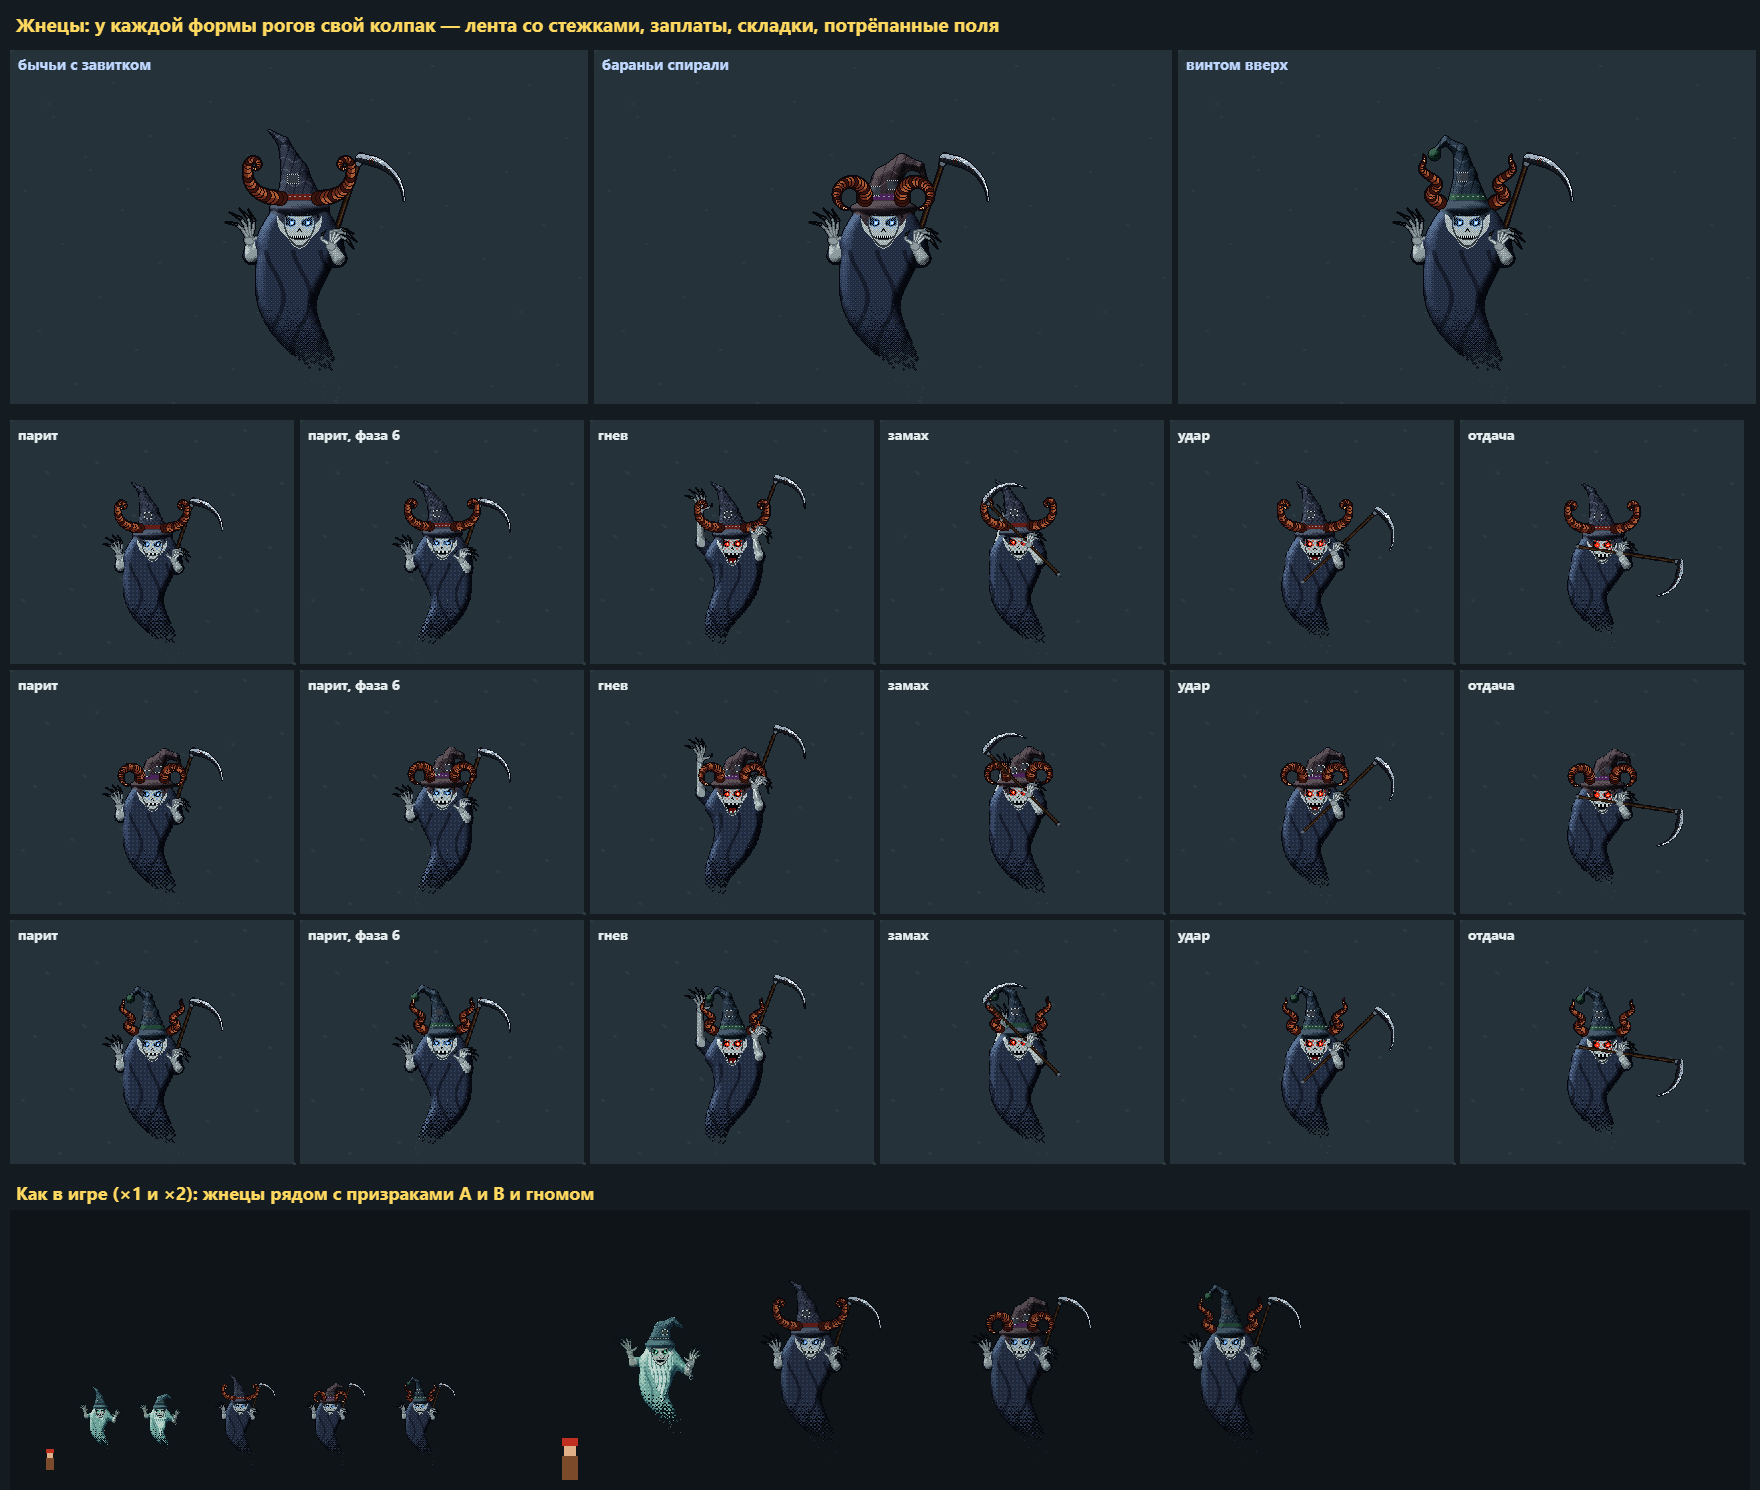
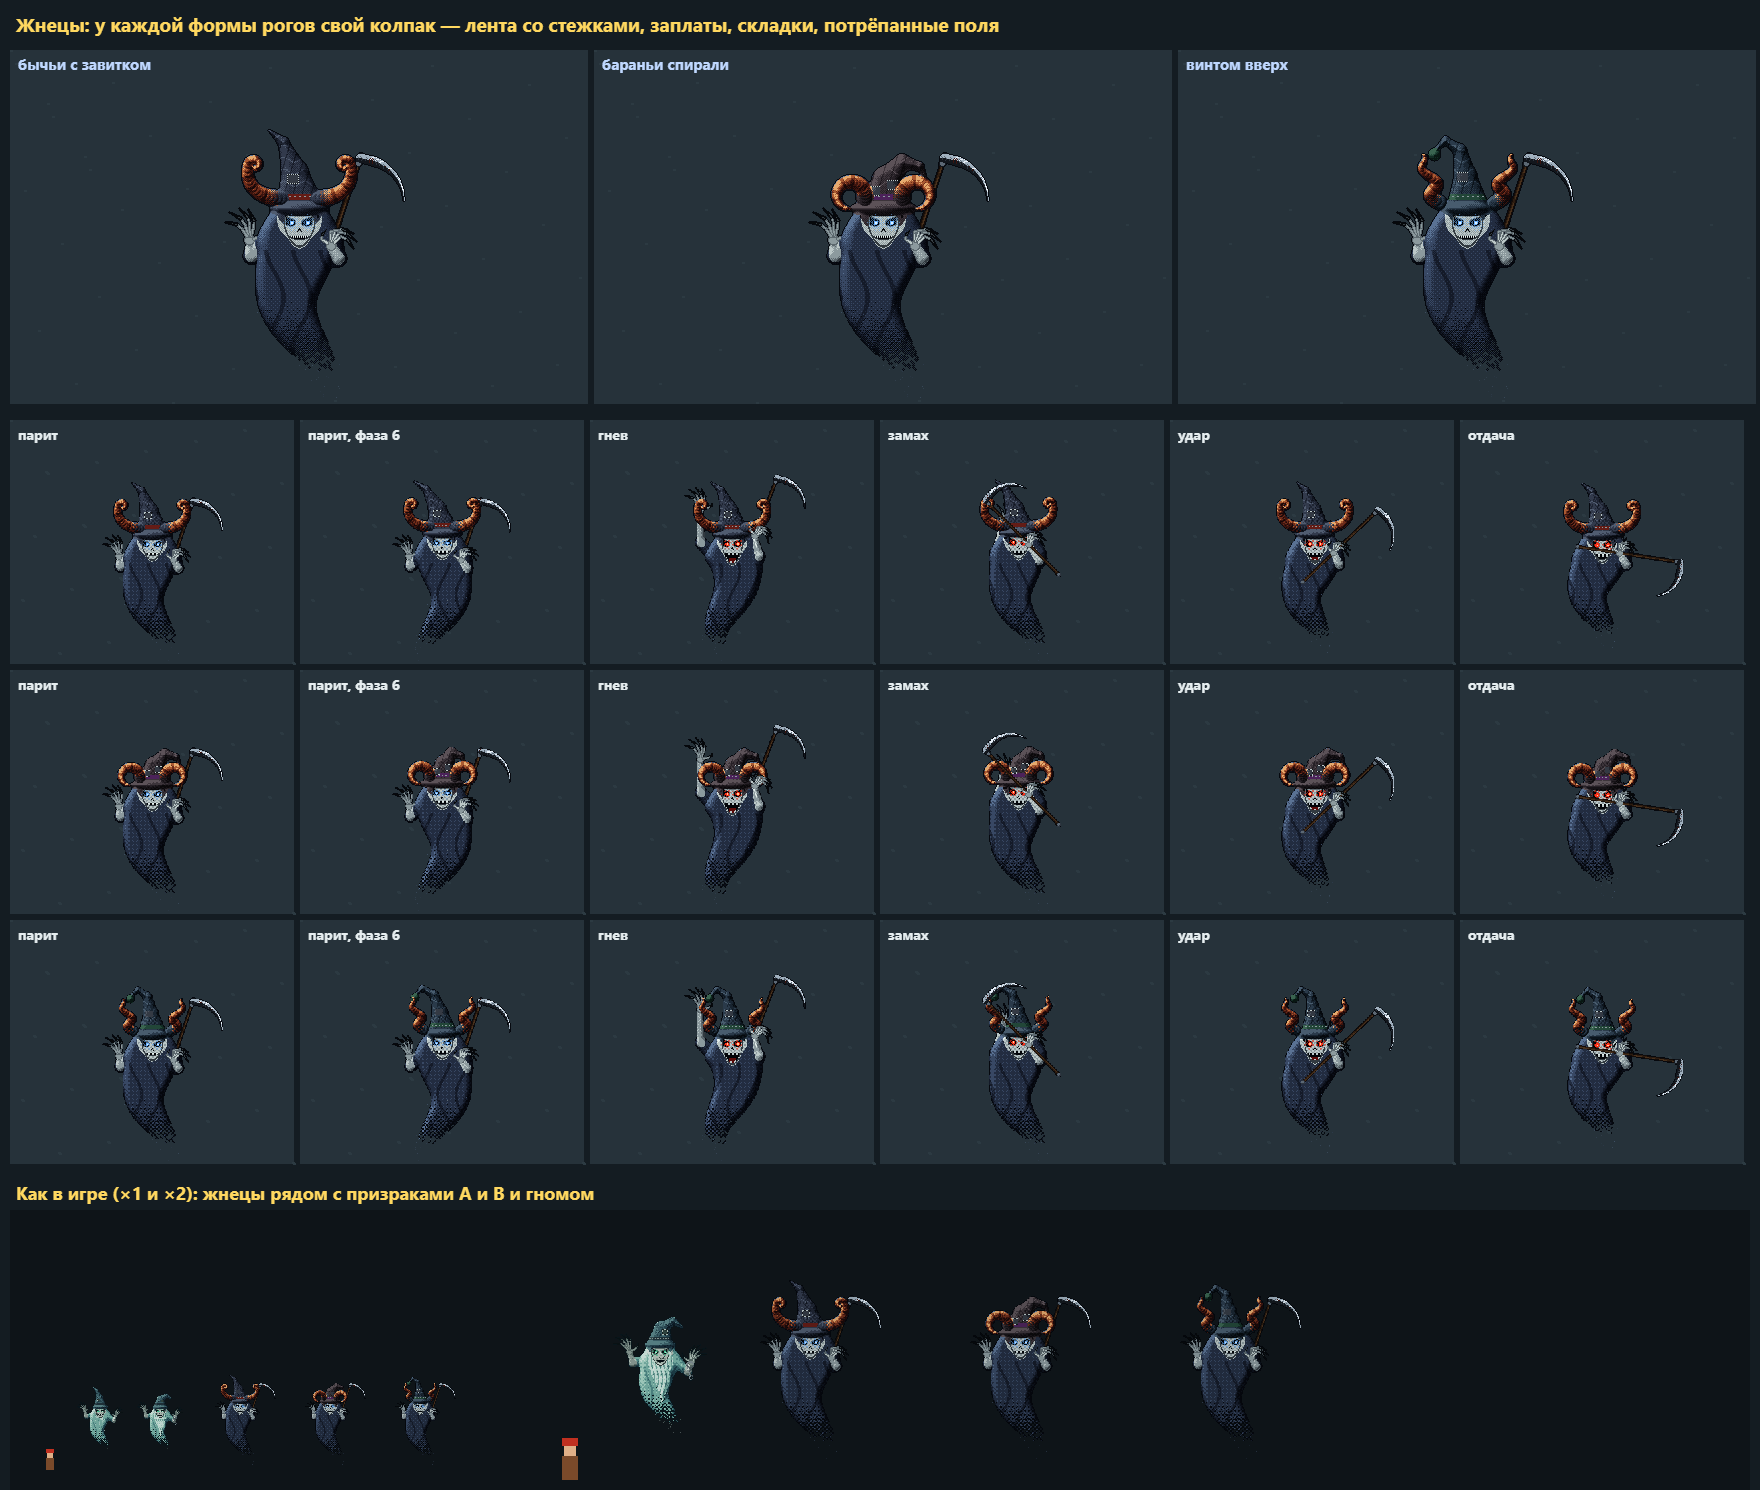
Жнецы: рога — часть одной формы с колпаком (капсулы слиты smin, общий свет), у корня цвет колпака переходит в рог Байером — без границы

diff --git a/js/world/reaperpx.js b/js/world/reaperpx.js
@@ -131,54 +131,10 @@ function reaperPx(v, mood, p = 0, k = 0, hv = 0) {
   DS_body(K, armParts(AF), { rb: RB.slice(0, 5), bo: BO.slice(0, 4) }, { bb: [-120, -128, 121, 179], W: 6, k: 5, amb: 0.12, mat: 'rb' });
   claw(AF, -1, true, false);
 
-  // ---- одна форма: ряса, плечи, ближняя рука, голова и убор
-  const parts = [...DS_chain(spine, { mat: 'rb', k: 8 }), { f: ell(lean * 0.6, 22, 40, 18), mat: 'rb', k: 9 }, ...armParts(AN)];
-  if (v === 'R1') {
-    parts.push({ f: ell(HX, HY - 2, 23, 25), mat: 'hm', k: 6 }, { f: ell(HX, HY + 16 + drop * 0.6, 17, 13 + drop * 0.5), mat: 'hm', k: 5 });
-    parts.push({ f: (x, y) => Math.max(faceF(x, y), HY - 9 - y) - 1, mat: 'void', zone: true });
-  } else if (v === 'R2') {
-    parts.push({ f: ell(HX, HY - 2, 22, 22), mat: 'bo', k: 6 }, { f: faceF, mat: 'bo', k: 4 });
-    parts.push(...DS_chain(CP.cone, { mat: 'cap', k: 3 }));
-    parts.push({ f: ell(HX, HY - 12, CP.brim, 9), mat: 'cap', k: 2, front: true, fw: 3 });
-    parts.push({ f: (x, y) => Math.max(DS_ell(HX, HY - 15, 26, 40)(x, y), Math.abs(y - HY + 24) - 3), mat: 'band', zone: true });
-    for (const [px, py] of CP.patch) parts.push({ f: (x, y) => Math.max(Math.abs(x - px) - 6, Math.abs(y - py) - 5), mat: 'patch', zone: true });
-    if (CP.bob) parts.push({ f: ell(CP.bob[0], CP.bob[1], 6, 6), mat: 'band', k: 2, front: true, fw: 3 });
-    parts.push({ f: (x, y) => Math.max(faceF(x, y), HY - 5 - y), mat: 'bo', zone: true });
-  } else {
-    parts.push({ f: ell(HX - 3, HY - 5, 33, 36), mat: 'cap', k: 9 });
-    parts.push(...DS_chain([[HX - 8, HY - 30, 15], [HX - 18 + tip * 0.5, HY - 50, 6], [HX - 28 + tip, HY - 62, 1]], { mat: 'cap', k: 5 }));
-    parts.push({ f: (x, y) => faceF(x, y) - 4, mat: 'void', zone: true });
-  }
-  const tex = (x, y, mat, idx, ramp) => {
-    const cy = y - HY, cx = x - HX;
-    if (mat === 'rb') { const w = ((x * 0.22 + Math.sin(y * 0.06 + p * TAU) * 2) % 6 + 6) % 6; return y > 30 && w < 1 ? ramp[Math.max(0, idx - 1)] : null; }
-    if (mat === 'cap' && v === 'R2') {
-      if (cy > -12 && cy < -2.5 && cy > -6 && hsh(Math.floor(x / 2) * 3.7) > 0.6) return ramp[0];
-      if (cy < -26 && (((cx + cy * 0.3 + 60) % 9) + 9) % 9 < 1.2) return ramp[Math.max(0, idx - 1)];
-      if (cy < -30 && (((cy + Math.sin(cx * 0.3) * 2.5) % 12) + 12) % 12 > 10.5) return ramp[Math.min(ramp.length - 1, idx + 1)];
-    }
-    if (mat === 'cap' && v === 'R3') { const d = faceF(x, y); if (d > 0 && d < 6 && hsh(Math.floor(x / 2) + y * 0.3) > 0.55) return ramp[0]; }
-    if (mat === 'band') return Math.round(cy + 24) === 0 && ((x + 60) % 5) < 2 ? BO[2] : null;
-    if (mat === 'patch') { const [px, py] = CP.patch.reduce((a, q) => Math.hypot(x - q[0], y - q[1]) < Math.hypot(x - a[0], y - a[1]) ? q : a), ex = Math.abs(x - px), ey = Math.abs(y - py); return ex > 5 || ey > 4 ? (((x + y) & 1) ? BO[3] : ramp[0]) : null; }
-    if (mat === 'hm') {                                                                // шлем: заклёпки по ободу
-      if (Math.abs(cy + 8) < 1 && Math.abs(cx) > 12 && Math.abs(cx) < 20 && (x & 3) === 0) return RPX.IR[3];
-    }
-    return null;
-  };
-  DS_body(K, parts, { rb: RB, bo: BO, cap: CP.fab, band: CP.band, patch: RPX.PATCH, hm: RPX.HM, void: VO }, { bb: [-120, -128, 121, 179], W: 10, k: 6, amb: 0.14, mat: 'rb', cut, tex });
-
-  // ---- череп в прорези шлема (R1) или в глубине капюшона (R3)
-  if (v !== 'R2') DS_body(K, [{ f: ell(FX, FY - 4, 15, 13), mat: 'bo' }, { f: faceF, mat: 'bo', k: 4 }],
-    { bo: BO.slice(0, 4) }, { bb: [-50, -50, 50, 60], W: 6, k: 4, amb: 0.1, mat: 'bo' });
-  // кромка лица
-  R(FX - 22, HY - 8, FX + 22, FY + 32 + drop, (x, y) => { const d = faceF(x, y); return d > -1.2 && d <= 0 && y > HY - 6 ? BO[0] : null; });
-
-  // ---- рога: три формы (hv, как g.var у векторного жнеца) — 0 бараньи спирали, 1 винтом вверх, 2 бычьи с завитком на конце;
+  // ---- рога: часть ОДНОЙ формы — капсулы вдоль оси слиты с колпаком smin, у корня цвет колпака переходит в рог Байером.
+  // Три формы (hv, как g.var у векторного жнеца) — 0 бараньи спирали, 1 винтом вверх, 2 бычьи с завитком на конце;
   // у шлема (R1) крупные, у колпака (R2) торчат сквозь колпак и закручены сильнее; R3 — корона костяных шипов
-  const horn = (pts, r0) => {
-    const H = RPX.HORN, n = pts.length - 1;
-    K.path(pts.map((q, i) => [q[0], q[1], r0 * Math.pow(1 - i / n, 0.75) + 0.5]), (t, e, sd) => e ? H[0] : (Math.floor(t * 22) % 3 === 0 ? H[1] : t > 0.82 ? H[4] : sd > 0 ? H[2] : H[3]));
-  };
+  const HORNS = [], horn = (pts, r0) => HORNS.push(pts.map((q, i) => [q[0], q[1], r0 * Math.pow(1 - i / (pts.length - 1), 0.75) + 0.5]));
   const curl = v === 'R2' ? 1.45 : 1, HS = v === 'R2' ? 1.1 : 1.25;                    // закрут и размер
   for (const s of [-1, 1]) {
     if (v === 'R3') {
@@ -201,6 +157,58 @@ function reaperPx(v, mood, p = 0, k = 0, hv = 0) {
     }
   }
   if (v === 'R3') horn([[HX - 4, HY - 38], [HX - 4, HY - 46], [HX - 3, HY - 54]], 3);
+
+  // ---- одна форма: ряса, плечи, ближняя рука, голова и убор
+  const parts = [...DS_chain(spine, { mat: 'rb', k: 8 }), { f: ell(lean * 0.6, 22, 40, 18), mat: 'rb', k: 9 }, ...armParts(AN)];
+  if (v === 'R1') {
+    parts.push({ f: ell(HX, HY - 2, 23, 25), mat: 'hm', k: 6 }, { f: ell(HX, HY + 16 + drop * 0.6, 17, 13 + drop * 0.5), mat: 'hm', k: 5 });
+    parts.push({ f: (x, y) => Math.max(faceF(x, y), HY - 9 - y) - 1, mat: 'void', zone: true });
+  } else if (v === 'R2') {
+    parts.push({ f: ell(HX, HY - 2, 22, 22), mat: 'bo', k: 6 }, { f: faceF, mat: 'bo', k: 4 });
+    parts.push(...DS_chain(CP.cone, { mat: 'cap', k: 3 }));
+    parts.push({ f: ell(HX, HY - 12, CP.brim, 9), mat: 'cap', k: 2, front: true, fw: 3 });
+    parts.push({ f: (x, y) => Math.max(DS_ell(HX, HY - 15, 26, 40)(x, y), Math.abs(y - HY + 24) - 3), mat: 'band', zone: true });
+    for (const [px, py] of CP.patch) parts.push({ f: (x, y) => Math.max(Math.abs(x - px) - 6, Math.abs(y - py) - 5), mat: 'patch', zone: true });
+    if (CP.bob) parts.push({ f: ell(CP.bob[0], CP.bob[1], 6, 6), mat: 'band', k: 2, front: true, fw: 3 });
+    parts.push({ f: (x, y) => Math.max(faceF(x, y), HY - 5 - y), mat: 'bo', zone: true });
+  } else {
+    parts.push({ f: ell(HX - 3, HY - 5, 33, 36), mat: 'cap', k: 9 });
+    parts.push(...DS_chain([[HX - 8, HY - 30, 15], [HX - 18 + tip * 0.5, HY - 50, 6], [HX - 28 + tip, HY - 62, 1]], { mat: 'cap', k: 5 }));
+    parts.push({ f: (x, y) => faceF(x, y) - 4, mat: 'void', zone: true });
+  }
+  const tex = (x, y, mat, idx, ramp) => {
+    const cy = y - HY, cx = x - HX;
+    if (mat === 'horn') {                                                             // ход вдоль рога: рёбра поперёк, светлый кончик, у корня — колпак
+      let bt = 0, bd = 1e9, bh = null;
+      for (const h of HORNS) for (let i = 0; i < h.length; i++) { const d = (x - h[i][0]) ** 2 + (y - h[i][1]) ** 2; if (d < bd) { bd = d; bt = i / (h.length - 1); bh = h; } }
+      const len = bh.length, root = bt * len;
+      if (v === 'R2' && root < 3.5 && dth(x, y) < 1 - root / 3.5) return CP.fab[Math.min(CP.fab.length - 1, idx)];
+      if (Math.floor(bt * 22) % 3 === 0) return ramp[Math.max(0, idx - 1)];
+      if (bt > 0.82) return ramp[Math.min(ramp.length - 1, idx + 1)];
+      return null;
+    }
+    if (mat === 'rb') { const w = ((x * 0.22 + Math.sin(y * 0.06 + p * TAU) * 2) % 6 + 6) % 6; return y > 30 && w < 1 ? ramp[Math.max(0, idx - 1)] : null; }
+    if (mat === 'cap' && v === 'R2') {
+      if (cy > -12 && cy < -2.5 && cy > -6 && hsh(Math.floor(x / 2) * 3.7) > 0.6) return ramp[0];
+      if (cy < -26 && (((cx + cy * 0.3 + 60) % 9) + 9) % 9 < 1.2) return ramp[Math.max(0, idx - 1)];
+      if (cy < -30 && (((cy + Math.sin(cx * 0.3) * 2.5) % 12) + 12) % 12 > 10.5) return ramp[Math.min(ramp.length - 1, idx + 1)];
+    }
+    if (mat === 'cap' && v === 'R3') { const d = faceF(x, y); if (d > 0 && d < 6 && hsh(Math.floor(x / 2) + y * 0.3) > 0.55) return ramp[0]; }
+    if (mat === 'band') return Math.round(cy + 24) === 0 && ((x + 60) % 5) < 2 ? BO[2] : null;
+    if (mat === 'patch') { const [px, py] = CP.patch.reduce((a, q) => Math.hypot(x - q[0], y - q[1]) < Math.hypot(x - a[0], y - a[1]) ? q : a), ex = Math.abs(x - px), ey = Math.abs(y - py); return ex > 5 || ey > 4 ? (((x + y) & 1) ? BO[3] : ramp[0]) : null; }
+    if (mat === 'hm') {                                                                // шлем: заклёпки по ободу
+      if (Math.abs(cy + 8) < 1 && Math.abs(cx) > 12 && Math.abs(cx) < 20 && (x & 3) === 0) return RPX.IR[3];
+    }
+    return null;
+  };
+  for (const h of HORNS) parts.push(...DS_chain(h, { mat: 'horn', k: 3, front: true, fw: 2, W: 4 }));
+  DS_body(K, parts, { rb: RB, bo: BO, cap: CP.fab, band: CP.band, patch: RPX.PATCH, hm: RPX.HM, void: VO, horn: RPX.HORN }, { bb: [-120, -128, 121, 179], W: 10, k: 6, amb: 0.14, mat: 'rb', cut, tex });
+
+  // ---- череп в прорези шлема (R1) или в глубине капюшона (R3)
+  if (v !== 'R2') DS_body(K, [{ f: ell(FX, FY - 4, 15, 13), mat: 'bo' }, { f: faceF, mat: 'bo', k: 4 }],
+    { bo: BO.slice(0, 4) }, { bb: [-50, -50, 50, 60], W: 6, k: 4, amb: 0.1, mat: 'bo' });
+  // кромка лица
+  R(FX - 22, HY - 8, FX + 22, FY + 32 + drop, (x, y) => { const d = faceF(x, y); return d > -1.2 && d <= 0 && y > HY - 6 ? BO[0] : null; });
 
   // ---- лицо: глазницы, ледяные (в гневе — красные) огоньки, провал носа, пасть
   for (const e of [-1, 1]) {
